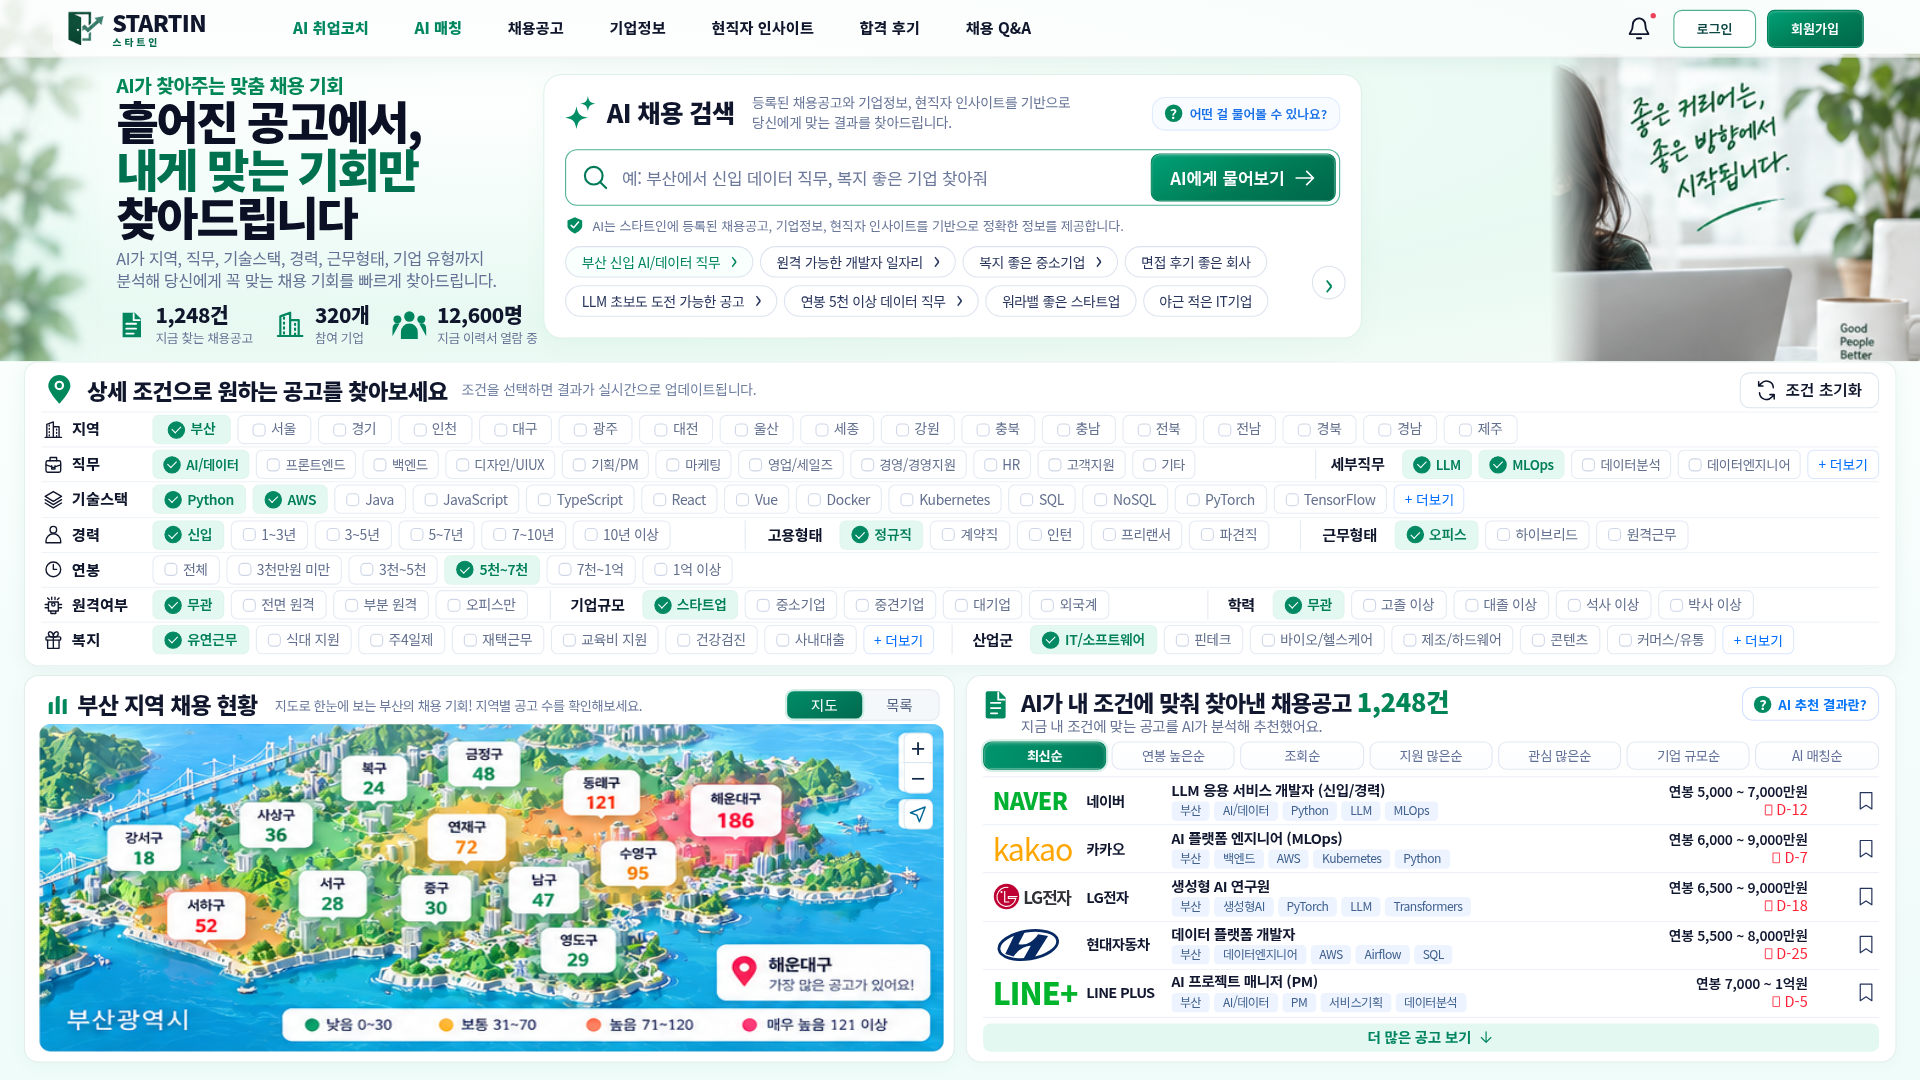
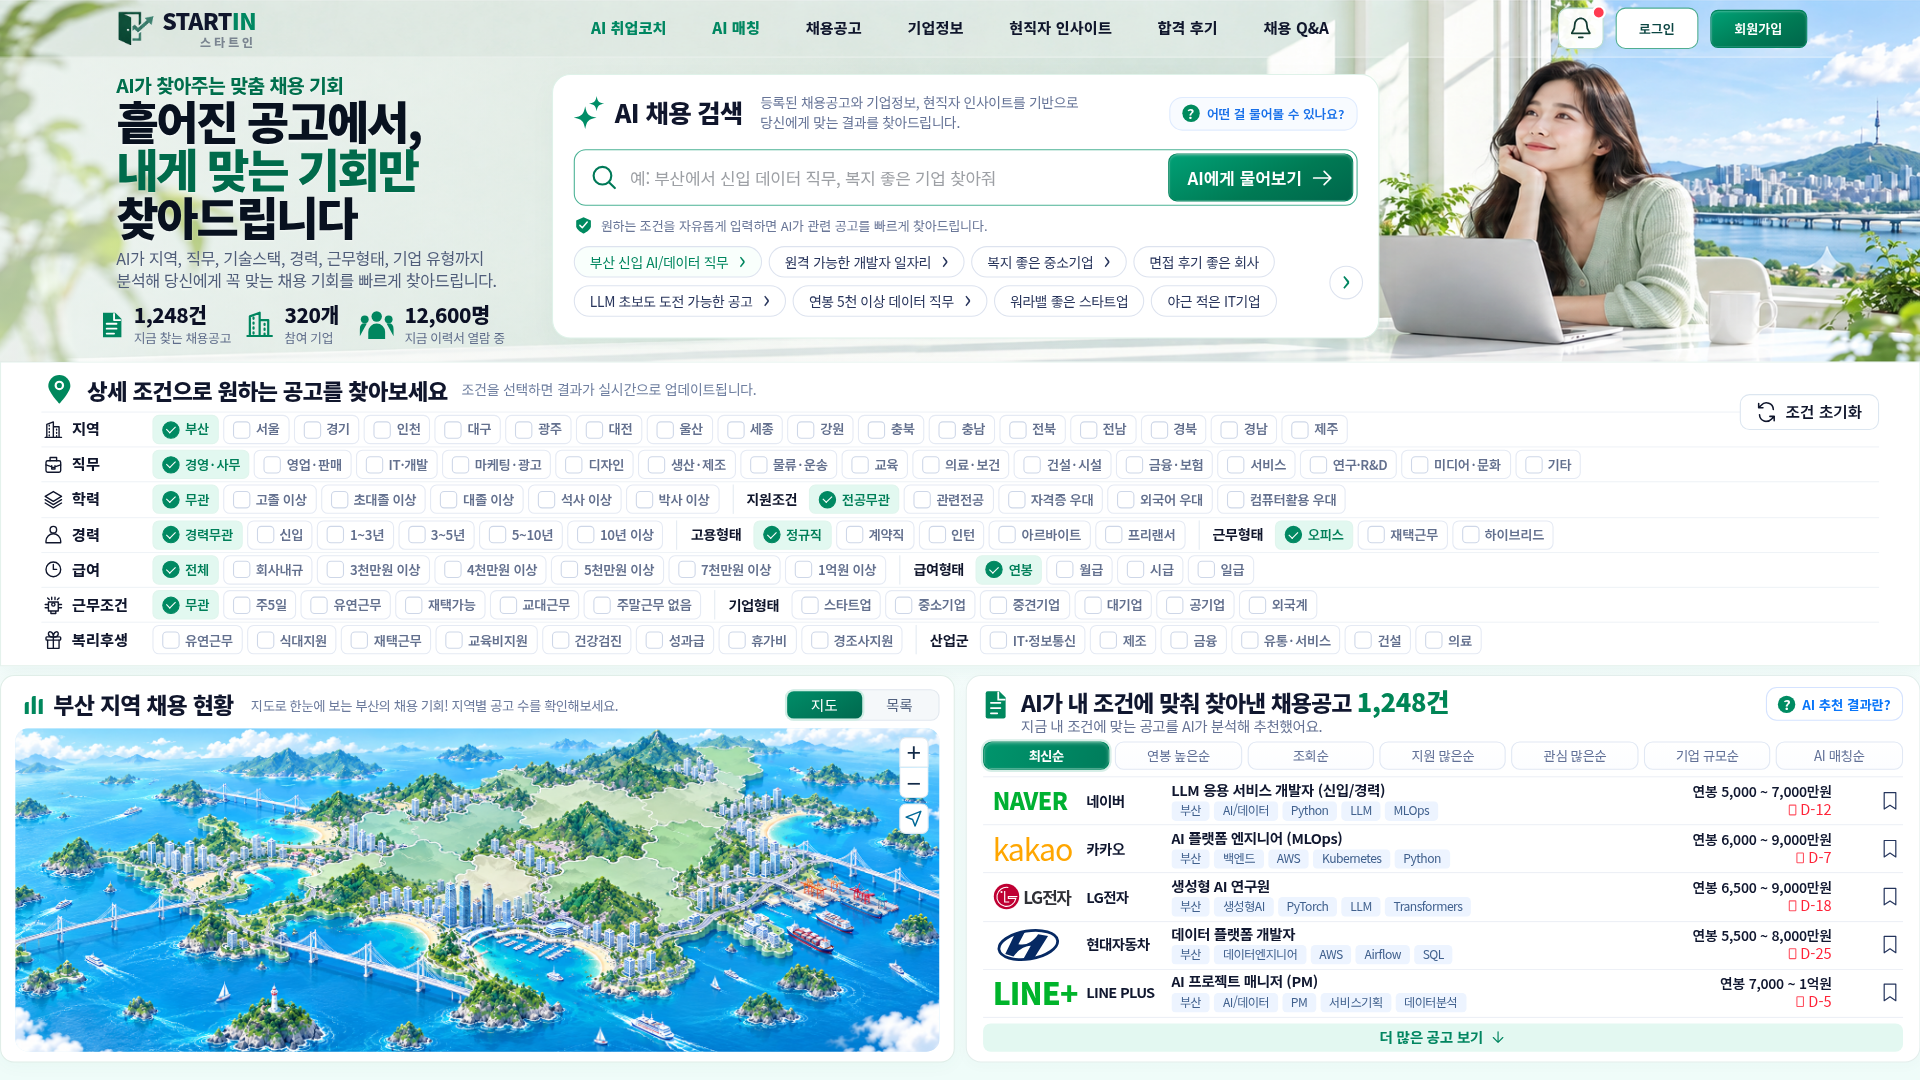
260925_1015 start_in update

diff --git a/index.html b/index.html
@@ -4,6 +4,8 @@
   <meta charset="UTF-8">
   <meta name="viewport" content="width=device-width, initial-scale=1">
   <meta name="color-scheme" content="only light">
+  <link rel="icon" href="favicon.ico" sizes="any">
+  <link rel="icon" type="image/png" href="assets/favicon.png">
   <title>STARTIN · 1920×1080</title>
   <link rel="stylesheet" href="styles.css">
   <link rel="stylesheet" href="jobs-panel.css">

diff --git a/index.template.html b/index.template.html
@@ -4,6 +4,8 @@
   <meta charset="UTF-8">
   <meta name="viewport" content="width=device-width, initial-scale=1">
   <meta name="color-scheme" content="only light">
+  <link rel="icon" href="favicon.ico" sizes="any">
+  <link rel="icon" type="image/png" href="assets/favicon.png">
   <title>STARTIN · 1920×1080</title>
   <link rel="stylesheet" href="styles.css">
   <link rel="stylesheet" href="jobs-panel.css">

diff --git a/README.md b/README.md
@@ -1,129 +1,73 @@
 # STARTIN
 
-> **빠르게 찾고, 가볍게 보고, 바로 나갈 수 있는 AI 구직 탐색 프로젝트.**
+> **빠르게 찾고, 가볍게 보고, 바로 나갈 수 있는 구직 탐색 프로젝트.**
 
-`STARTIN`은 지금까지 배운 웹 기술을 실제 서비스 흐름으로 연결해보기 위한 학습·포트폴리오 프로젝트입니다.
+`STARTIN`은 구직사이트에 들어갔을 때 쏟아지는 정보부터 보는 대신, **내 조건에 맞는 채용시장이 지금 어떤지 빠르게 확인하는 경험**에서 시작한 프로젝트입니다.
 
-대형 구직사이트처럼 정보를 많이 쌓는 것보다, **내 조건에서 지금 볼 만한 공고가 얼마나 있는지 빠르게 확인하는 경험**을 먼저 만듭니다.
-
----
+지역과 조건을 고르고, 지도를 보고, 공고를 확인하고, 필요하면 AI 검색을 이용합니다. 볼 것을 봤으면 오래 붙잡아두지 않는 화면을 지향합니다.
 
 ## HOME · 1차 초안
 
-![start_in home draft](assets/images/home-draft-20260919.png)
+![STARTIN HOME 1차 초안](assets/images/home-draft-20260919.png)
 
-처음 방향을 잡았을 때의 HOME 1차 초안입니다.
+처음으로 STARTIN의 방향이 잡힌 HOME 1차 초안입니다.
 
-이때부터 STARTIN의 핵심은 크게 바뀌지 않았습니다.
-
-**조건을 고른다 → 결과를 바로 본다 → 지역별 채용 밀도를 본다 → 필요한 정보만 더 본다.**
-
-로고, 히어로, 지도, 필터와 공고영역의 디테일은 이후 실제 구현 과정에서 계속 수정했습니다.
-
----
+이때 정한 큰 흐름인 **조건 선택 → 지역별 채용 밀도 → 공고 확인**은 유지하면서, 이후 실제 구현 과정에서 화면의 구조와 디테일을 계속 다듬었습니다.
 
 ## HOME · 현재 구현
 
-![STARTIN current home](assets/images/home-current-20260925.png)
+![STARTIN 현재 HOME](assets/images/home-current-20260925.png)
 
-1차 초안을 기준으로 실제 HTML/CSS/JS 화면을 만들고 브라우저에서 직접 조정한 현재 메인 프로토타입입니다.
+현재 HTML/CSS/JS로 구현한 PC 메인 화면입니다.
 
-### 현재 구현된 화면
+1차 초안 이후 헤더, 히어로, AI 검색, 상세 필터, 부산 지도, 채용공고 영역을 실제 브라우저에서 조정하며 현재 형태까지 발전시켰습니다.
 
-- 자연어 형태의 **AI 채용 검색 UI**
-- 지역 · 직무 · 학력 · 경력 · 고용형태 · 급여 · 근무조건 · 기업형태 · 복리후생 필터
-- **부산 지역 채용 현황 지도 / 목록 전환**
-- 지도 지역 선택 및 확대 · 축소
-- 예시 채용공고 검색 · 정렬
-- 관심 공고 저장 (`localStorage`)
-- **1920×1080 PC 화면**을 기준으로 한 메인 페이지
-
-현재 화면의 기업명·공고·연봉·공고 수는 UI 구현을 위한 예시 데이터입니다.
-
----
-
-## STARTIN이 중요하게 보는 것
-
-STARTIN의 첫 화면에서 가장 중요하게 보는 것은 기능의 개수보다 **답을 얻는 속도**입니다.
-
-**조건을 고른다 → 지도를 본다 → 공고를 본다 → 필요하면 AI에게 묻는다 → 볼 것을 봤으면 나간다.**
-
-처음부터 정보를 전부 쏟아내기보다, 필요한 사람이 필요한 만큼만 더 들어갈 수 있는 구직 탐색 경험을 만들고 있습니다.
-
-### 핵심 경험
+## 핵심 경험
 
 - **AI 채용 검색**  
-  등록된 채용공고 · 기업정보 · 현직자 인사이트를 바탕으로 자연어로 원하는 조건을 찾는 방향을 목표로 합니다.
+  자연어로 원하는 조건을 입력해 관련 공고를 찾는 흐름을 목표로 합니다.
 
 - **체크형 상세 조건**  
-  필요한 조건을 눈으로 빠르게 훑고 바로 선택할 수 있게 합니다.
-
-- **조건 변경에 따른 즉시 갱신**  
-  조건이 달라지면 공고 수와 지역별 채용 밀도도 함께 달라지는 구조를 목표로 합니다.
+  지역 · 직무 · 학력 · 경력 · 고용형태 · 급여 · 근무조건 · 기업형태 · 복리후생 등을 한눈에 보고 바로 고릅니다.
 
 - **지역별 채용 밀도 지도**  
-  숫자를 하나씩 읽기 전에 어디에 공고가 몰려 있는지 먼저 느낄 수 있는 지도를 지향합니다.
+  숫자를 하나씩 읽기 전에 어디에 채용기회가 몰려 있는지 먼저 느낄 수 있는 지도를 지향합니다.
 
-- **빠른 공고 탐색**  
-  검색을 마친 뒤에도 불필요하게 오래 머물게 하기보다 필요한 공고를 빠르게 확인하는 흐름을 우선합니다.
+- **공고 탐색**  
+  조건을 바꾸고, 결과를 비교하고, 관심 있는 공고를 빠르게 확인하는 흐름을 우선합니다.
 
----
+## 현재 단계
 
-## 상단 주요 메뉴
+`아이디어 → HOME 1차 초안 → PC 디자인 정리 → HTML/CSS/JS 구현 → 브라우저 미세조정 → 현재 메인 프로토타입`
 
-- **AI 취업코치**
-- **AI 매칭**
-- **채용공고**
-- **기업정보**
-- **현직자 인사이트**
-- **합격 후기**
-- **채용 Q&A**
+현재 화면은 **1920×1080 PC 환경**을 기준으로 만들고 있습니다. 공고·기업·연봉·공고 수 등은 UI 구현을 위한 예시 데이터이며, 실제 데이터 연결과 기능 확장은 이후 개발 단계에서 이어갑니다.
 
-현재는 메인 화면을 우선 구현하고 있으며, 다른 페이지와 실제 기능은 이후 개발 단계에서 연결합니다.
-
----
-
-## 개발 과정
-
-현재까지의 흐름은 다음과 같습니다.
-
-`제품 아이디어 → HOME 1차 초안 → 디자인 기준 정리 → HTML/CSS/JS 구현 → 브라우저 미세조정 → 현재 메인 프로토타입`
-
-다음 단계에서는 현재 화면의 디자인을 기준으로 React 컴포넌트와 상태·이벤트 구조를 연결합니다.
-
----
+다음 단계에서는 현재 화면을 기준으로 React 컴포넌트와 상태·이벤트 구조를 연결합니다.
 
 ## AI DEVLOG
 
-결과 화면만 남기지 않고, **무슨 생각으로 시작했고 무엇을 잘못 만들었으며 사용자와 AI가 어떻게 방향을 바꿔왔는지**도 함께 기록하고 있습니다.
+결과만 남기지 않고, **무슨 생각으로 시작했고 무엇을 잘못 만들었으며 사용자와 AI가 어떻게 부딪히고 방향을 바꿨는지**도 함께 기록합니다.
 
 - [POST 01 · 추석 연휴에 일이 커졌다](docs/AI_DEVLOG.md)
 - [POST 02 · 홈 화면을 만들었는데 자꾸 다른 사이트가 됐다](docs/AI_DEVLOG_02.md)
 - [POST 03 · 조금만 다듬자고 했는데 만드는 기준부터 생겼다](docs/AI_DEVLOG_03.md)
 - [POST 04 · 히어로 이미지 하나에 AI들이 다 달라붙었다](docs/AI_DEVLOG_04.md)
 
-DEVLOG는 실제 작업 과정에서 있었던 사용자 판단, AI의 반응, 실패와 수정 과정을 바탕으로 작성합니다.
-
----
-
 ## 실행
 
-별도 설치 없이 `index.html`을 브라우저에서 열면 현재 프로토타입을 확인할 수 있습니다.
+별도 설치 없이 저장소의 `index.html`을 브라우저에서 열면 현재 프로토타입을 확인할 수 있습니다.
 
-`index.template.html`과 `jobs-panel.html`을 수정한 경우에는 다음 명령으로 `index.html`을 다시 생성할 수 있습니다.
+`index.template.html`과 `jobs-panel.html`을 수정한 뒤 메인 HTML을 다시 만들 때는:
 
 ```bash
 python build.py
 ```
 
----
-
 ## 화면 기준
 
 - PC master viewport: **1920×1080**
 - 기본 테마: **White mode**
-- 현재는 PC 메인 화면을 우선 구현
-- 모바일 UI는 추후 별도로 설계
+- 현재 우선순위: **PC 메인 화면**
 
 ---
 
